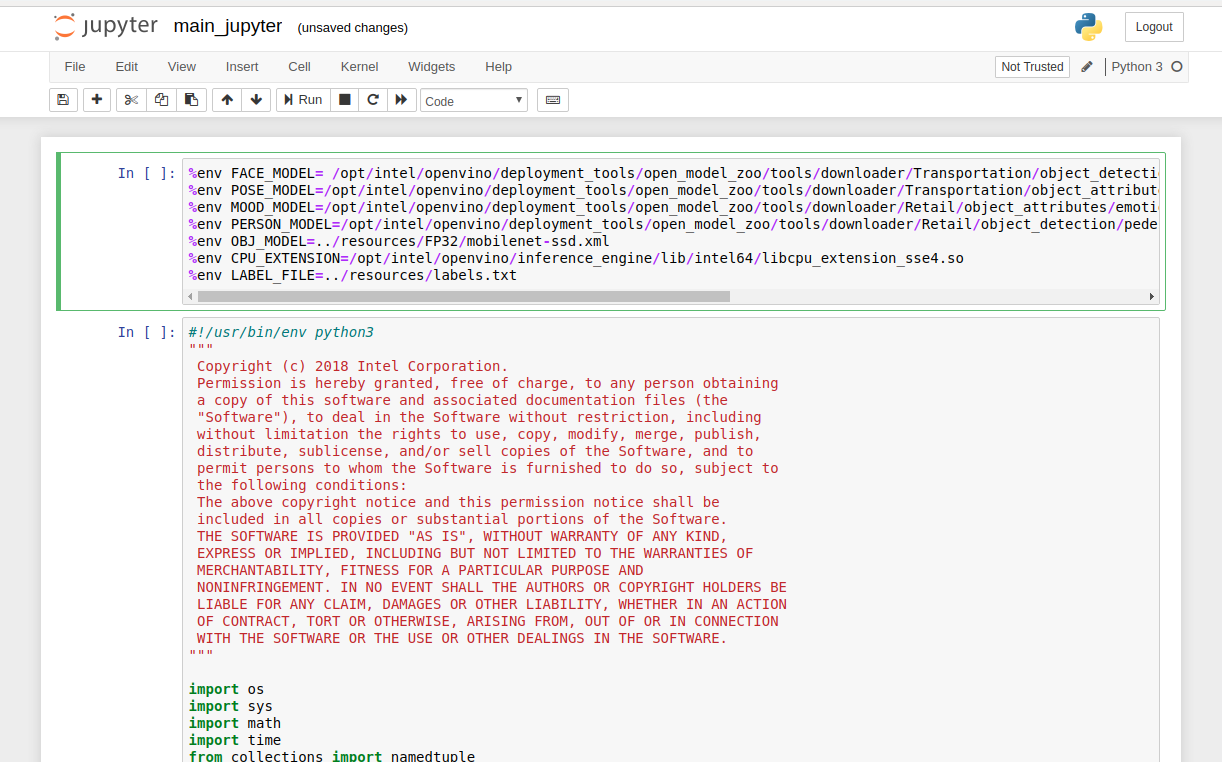
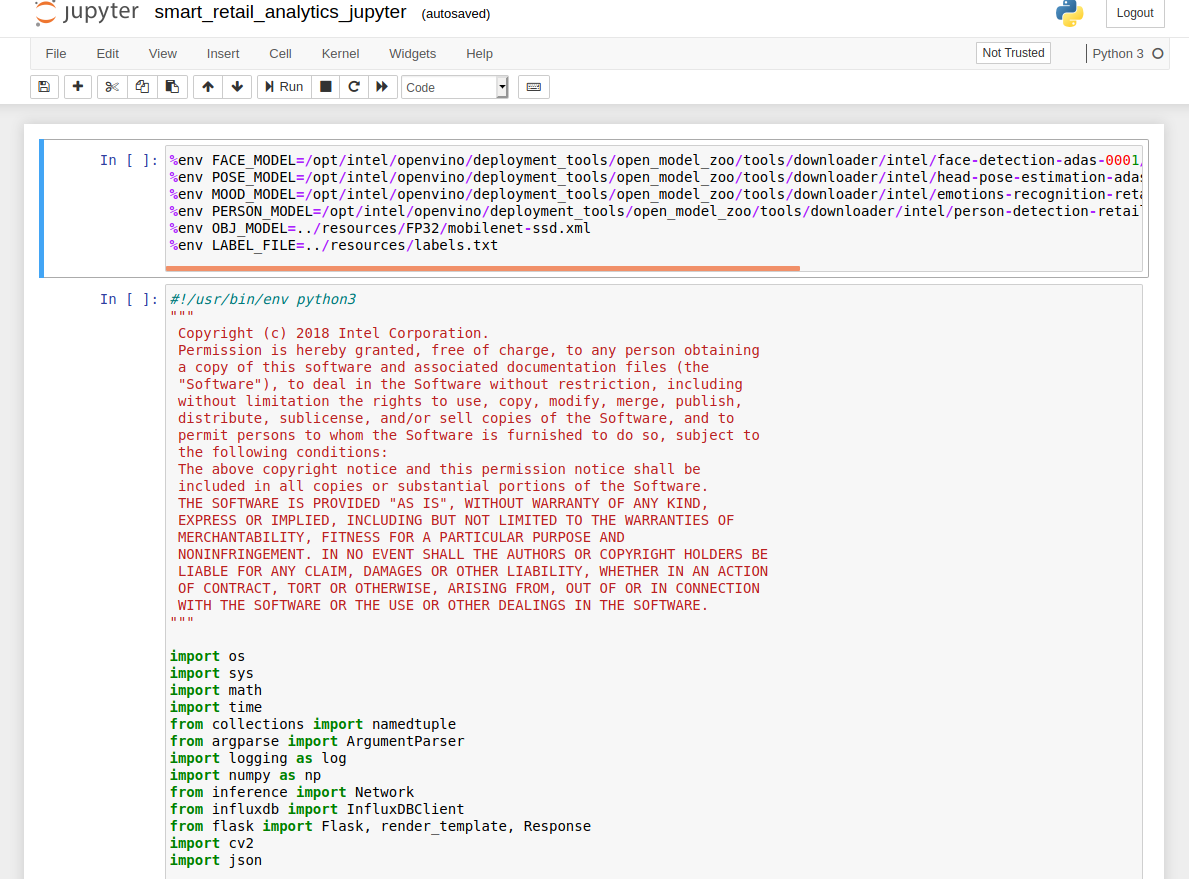
Updating to OpenVINO 2020.3

Changed region(s): [[0.0, 0.0, 1.0, 1.0]]

diff --git a/Jupyter/inference.py b/Jupyter/inference.py
@@ -76,7 +76,7 @@ class Network:
            tag = {}
         # Read IR
         log.info("Reading IR...")
-        self.net = IENetwork(model=model_xml, weights=model_bin)
+        self.net = self.plugin.read_network(model=model_xml, weights=model_bin)
         log.info("Loading IR to the plugin...")
 
         if "CPU" in device:

diff --git a/application/inference.py b/application/inference.py
@@ -76,7 +76,7 @@ class Network:
            tag = {}
         # Read IR
         log.info("Reading IR...")
-        self.net = IENetwork(model=model_xml, weights=model_bin)
+        self.net = self.plugin.read_network(model=model_xml, weights=model_bin)
         log.info("Loading IR to the plugin...")
 
         if "CPU" in device:

diff --git a/Jupyter/smart_retail_analytics_jupyter.py b/Jupyter/smart_retail_analytics_jupyter.py
@@ -896,6 +896,9 @@ def retail_analytics():
 
 # Create object for Flask class
 app = Flask(__name__, template_folder=template_dir)
+app.logger.disabled = True
+log_ = log.getLogger('werkzeug')
+log_.disabled = True
 
 
 # Trigger the index() function on opening "0.0.0.0:5000/" URL

diff --git a/application/smart_retail_analytics.py b/application/smart_retail_analytics.py
@@ -949,7 +949,9 @@ def retail_analytics():
 
 # Create object for Flask class
 app = Flask(__name__, template_folder=template_dir)
-
+app.logger.disabled = True
+log_ = log.getLogger('werkzeug')
+log_.disabled = True
 
 @app.route('/')
 def index():

diff --git a/README.md b/README.md
@@ -2,7 +2,7 @@
 
 | Details           |              |
 |-----------------------|---------------|
-| Target OS:            |  Ubuntu\* 16.04 LTS   |
+| Target OS:            |  Ubuntu\* 18.04 LTS   |
 | Programming Language: |  Python* 3.5 |
 | Time to Complete:    |  50-70min     |
 
@@ -16,13 +16,13 @@ This smart retail analytics application monitors people activity, counts total n
 * 6th to 8th Generation Intel® Core™ processors with Iris® Pro graphics or Intel® HD Graphics
 
 ### Software
-* [Ubuntu\* 16.04 LTS](http://releases.ubuntu.com/16.04/)<br>
+* [Ubuntu\* 18.04 LTS](http://releases.ubuntu.com/18.04/)<br>
    *Note*: We recommend using a 4.14+ Linux* kernel with this software. Run the following command to determine your kernel version:
    ```
    uname -a
    ```
 * OpenCL™ Runtime Package
-* Intel® Distribution of OpenVINO™ toolkit 2019 R3 release
+* Intel® Distribution of OpenVINO™ toolkit 2020 R3 release
 * Grafana* v5.3.2 
 * InfluxDB* v1.6.2
 
@@ -49,7 +49,7 @@ The application is capable of processing multiple video input feeds, each having
 Steps to clone the reference implementation: (smart-retail-analytics)
 
     sudo apt-get update && sudo apt-get install git
-    git clone https://github.com/intel-iot-devkit/smart-retail-analytics.git
+    git clone https://gitlab.devtools.intel.com/reference-implementations/smart-retail-analytics-python.git
 
 ### Install the Intel® Distribution of OpenVINO™ toolkit
 Refer to https://software.intel.com/en-us/articles/OpenVINO-Install-Linux on how to install and setup the Intel® Distribution of OpenVINO™ toolkit.
@@ -70,7 +70,7 @@ Grafana is an open-source, general purpose dashboard and graph composer, which r
 The AJAX Panel is a general way to load external content into a grafana dashboard.
 
 ### Which model to use
-The application uses  Intel® Pre-Trained models in the feed type `shopper` i.e.[face-detection-adas-0001](https://docs.openvinotoolkit.org/2019_R3/_models_intel_face_detection_adas_0001_description_face_detection_adas_0001.html), [head-pose-estimation-adas-0001](https://docs.openvinotoolkit.org/2019_R3/_models_intel_head_pose_estimation_adas_0001_description_head_pose_estimation_adas_0001.html), [emotion-recognition-retail-0003](https://docs.openvinotoolkit.org/2019_R3/_models_intel_emotions_recognition_retail_0003_description_emotions_recognition_retail_0003.html). For the feed type `traffic`, [person-detection-retail-0002](https://docs.openvinotoolkit.org/2019_R3/person-detection-retail-0002.html) is used and these can be downloaded using **model downloader** script.
+The application uses  Intel® Pre-Trained models in the feed type `shopper` i.e.[face-detection-adas-0001](https://docs.openvinotoolkit.org/2020.3/_models_intel_face_detection_adas_0001_description_face_detection_adas_0001.html), [head-pose-estimation-adas-0001](https://docs.openvinotoolkit.org/2020.3/_models_intel_head_pose_estimation_adas_0001_description_head_pose_estimation_adas_0001.html), [emotion-recognition-retail-0003](https://docs.openvinotoolkit.org/2020.3/_models_intel_emotions_recognition_retail_0003_description_emotions_recognition_retail_0003.html). For the feed type `traffic`, [person-detection-retail-0002](https://docs.openvinotoolkit.org/2020.3/person-detection-retail-0002.html) is used and these can be downloaded using **model downloader** script.
 
 For video feed type __shelf__, mobilenet-ssd model is used that can be downloaded using `downloader` script present in Intel® Distribution of OpenVINO™ toolkit.
 The `mobilenet-ssd` model is a Single-Shot multibox Detection (SSD) network intended to perform object detection. This model is implemented using the Caffe\* framework. For details about this model, check out the [repository](https://github.com/chuanqi305/MobileNet-SSD).
@@ -172,7 +172,7 @@ For example, if the output of above command is `/dev/video0`, then config.json w
 ## Setup the environment
 You must configure the environment to use the Intel® Distribution of OpenVINO™ toolkit one time per session by running the following command:
 ```
-source /opt/intel/openvino/bin/setupvars.sh -pyver 3.5
+source /opt/intel/openvino/bin/setupvars.sh
 ```
 __Note__: This command needs to be executed only once in the terminal where the application will be executed. If the terminal is closed, the command needs to be executed again.
     
@@ -184,10 +184,15 @@ Change the current directory to the git-cloned application code location on your
 cd <path_to_the_smart-retail-analytics-python_directory>/application
 ```
 
-To run the application with the required models:
+A user can specify a target device to run on by using the device command-line argument `-d_<model-acronym> (Ex. d_fm, d_pm, d_mm, d_om or d_pd)` followed by one of the values `CPU`, `GPU`,`MYRIAD` or `HDDL`.<br>
+
+Not specifying any target device means by default all the models will run on CPU, although this can also be explicitly specified by the device command-line argument
+
+To run the application with the required models :
 ```
-python3 smart_retail_analytics.py -fm /opt/intel/openvino/deployment_tools/open_model_zoo/tools/downloader/intel/face-detection-adas-0001/FP32/face-detection-adas-0001.xml -pm /opt/intel/openvino/deployment_tools/open_model_zoo/tools/downloader/intel/head-pose-estimation-adas-0001/FP32/head-pose-estimation-adas-0001.xml -mm /opt/intel/openvino/deployment_tools/open_model_zoo/tools/downloader/intel/emotions-recognition-retail-0003/FP32/emotions-recognition-retail-0003.xml -om ../resources/FP32/mobilenet-ssd.xml -pr /opt/intel/openvino/deployment_tools/open_model_zoo/tools/downloader/intel/person-detection-retail-0002/FP32/person-detection-retail-0002.xml -lb ../resources/labels.txt -l /opt/intel/openvino/inference_engine/lib/intel64/libcpu_extension_sse4.so
+python3 smart_retail_analytics.py -fm /opt/intel/openvino/deployment_tools/open_model_zoo/tools/downloader/intel/face-detection-adas-0001/FP32/face-detection-adas-0001.xml -pm /opt/intel/openvino/deployment_tools/open_model_zoo/tools/downloader/intel/head-pose-estimation-adas-0001/FP32/head-pose-estimation-adas-0001.xml -mm /opt/intel/openvino/deployment_tools/open_model_zoo/tools/downloader/intel/emotions-recognition-retail-0003/FP32/emotions-recognition-retail-0003.xml -om ../resources/FP32/mobilenet-ssd.xml -pr /opt/intel/openvino/deployment_tools/open_model_zoo/tools/downloader/intel/person-detection-retail-0002/FP32/person-detection-retail-0002.xml -lb ../resources/labels.txt 
 ```
+
 Once the command is executed in the terminal, configure the Grafana dashboard using the instructions given in the next section to see the output.<br>
 To run the application on sync mode, use **-f sync** as command line argument. By default, the application runs on async mode.
 
@@ -200,13 +205,15 @@ The application can use different hardware accelerator for different models. The
 * `-d_om <device>`: Target device for mobilenet-ssd network (CPU, GPU, MYRIAD, HETERO:FPGA,CPU or HDDL).
 * `-d_pd <device>`: Target device for Person Detection Retail network (CPU, GPU, MYRIAD, HETERO:FPGA,CPU or HDDL).
 
+
 __For example:__<br>
 To run Face Detection model with FP16 and Emotions Recognition model with FP32 on GPU, Head Pose Estimation model on MYRIAD, mobilenet-ssd and person-detection model on CPU, use the below command:
 ```
-python3 smart_retail_analytics.py -fm /opt/intel/openvino/deployment_tools/open_model_zoo/tools/downloader/intel/face-detection-adas-0001/FP16/face-detection-adas-0001.xml -pm /opt/intel/openvino/deployment_tools/open_model_zoo/tools/downloader/intel/head-pose-estimation-adas-0001/FP16/head-pose-estimation-adas-0001.xml -mm /opt/intel/openvino/deployment_tools/open_model_zoo/tools/downloader/intel/emotions-recognition-retail-0003/FP32/emotions-recognition-retail-0003.xml -om ../resources/FP32/mobilenet-ssd.xml -pr /opt/intel/openvino/deployment_tools/open_model_zoo/tools/downloader/intel/person-detection-retail-0002/FP32/person-detection-retail-0002.xml -lb ../resources/labels.txt -l /opt/intel/openvino/inference_engine/lib/intel64/libcpu_extension_sse4.so -d_fm GPU -d_pm MYRIAD -d_mm GPU -d_pd CPU -d_om CPU
+python3 smart_retail_analytics.py -fm /opt/intel/openvino/deployment_tools/open_model_zoo/tools/downloader/intel/face-detection-adas-0001/FP16/face-detection-adas-0001.xml -pm /opt/intel/openvino/deployment_tools/open_model_zoo/tools/downloader/intel/head-pose-estimation-adas-0001/FP16/head-pose-estimation-adas-0001.xml -mm /opt/intel/openvino/deployment_tools/open_model_zoo/tools/downloader/intel/emotions-recognition-retail-0003/FP32/emotions-recognition-retail-0003.xml -om ../resources/FP32/mobilenet-ssd.xml -pr /opt/intel/openvino/deployment_tools/open_model_zoo/tools/downloader/intel/person-detection-retail-0002/FP32/person-detection-retail-0002.xml -lb ../resources/labels.txt -d_fm GPU -d_pm MYRIAD -d_mm GPU -d_pd CPU -d_om CPU
 ```
-To run with multiple devices use -d MULTI:device1,device2. For example: `-d MULTI:CPU,GPU,MYRIAD`<br>
-By default, the application runs on CPU.<br>
+
+To run with multiple devices use MULTI:device1,device2. For example: `-d_fm MULTI:CPU,GPU,MYRIAD`<br>
+
 **Note:**<br>
 * The Intel® Neural Compute Stick and Intel® Movidius™ VPU can only run FP16 models. The model that is passed to the application, must be of data type FP16.<br>
 <!--2. To run the application on FPGA, follow the steps mentioned under **Run on the FPGA** section.<br>-->
@@ -236,47 +243,9 @@ To run the application on the Intel® Movidius™ VPU, use the `-d HDDL` command
 ```
 python3 smart_retail_analytics.py -fm /opt/intel/openvino/deployment_tools/open_model_zoo/tools/downloader/intel/face-detection-adas-0001/FP16/face-detection-adas-0001.xml -pm /opt/intel/openvino/deployment_tools/open_model_zoo/tools/downloader/intel/head-pose-estimation-adas-0001/FP16/head-pose-estimation-adas-0001.xml -mm /opt/intel/openvino/deployment_tools/open_model_zoo/tools/downloader/intel/emotions-recognition-retail-0003/FP16/emotions-recognition-retail-0003.xml -om ../resources/FP16/mobilenet-ssd.xml -pr /opt/intel/openvino/deployment_tools/open_model_zoo/tools/downloader/intel/person-detection-retail-0002/FP16/person-detection-retail-0002.xml -lb ../resources/labels.txt -d_pd HDDL -d_fm HDDL -d_pm HDDL -d_mm HDDL -d_om HDDL
 ```
-
-#### Run on the Intel® Arria® 10 FPGA
-
-Before running the application on the FPGA, set the environment variables and  program the AOCX (bitstream) file.<br>
-
-Set the Board Environment Variable to the proper directory:
-
-```
-export AOCL_BOARD_PACKAGE_ROOT=/opt/intel/openvino/bitstreams/a10_vision_design_sg<#>_bitstreams/BSP/a10_1150_sg<#>
-```
-**NOTE**: If you do not know which version of the board you have, please refer to the product label on the fan cover side or by the product SKU: Mustang-F100-A10-R10 => SG1; Mustang-F100-A10E-R10 => SG2 <br>
-
-Set the Board Environment Variable to the proper directory:
-```
-export QUARTUS_ROOTDIR=/home/<user>/intelFPGA/18.1/qprogrammer
-```
-Set the remaining environment variables:
-```
-export PATH=$PATH:/opt/altera/aocl-pro-rte/aclrte-linux64/bin:/opt/altera/aocl-pro-rte/aclrte-linux64/host/linux64/bin:/home/<user>/intelFPGA/18.1/qprogrammer/bin
-export INTELFPGAOCLSDKROOT=/opt/altera/aocl-pro-rte/aclrte-linux64
-export LD_LIBRARY_PATH=$LD_LIBRARY_PATH:$AOCL_BOARD_PACKAGE_ROOT/linux64/lib
-export CL_CONTEXT_COMPILER_MODE_INTELFPGA=3
-source /opt/altera/aocl-pro-rte/aclrte-linux64/init_opencl.sh
-```
-**NOTE**: It is recommended to create your own script for your system to aid in setting up these environment variables. It will be run each time you need a new terminal or restart your system.
-
-The bitstreams for HDDL-F can be found under the `/opt/intel/openvino/bitstreams/a10_vision_design_sg<#>_bitstreams/` directory.<br><br>To program the bitstream use the below command:<br>
-```
-aocl program acl0 /opt/intel/openvino/bitstreams/a10_vision_design_sg<#>_bitstreams/2019R3_PV_PL1_FP16_MobileNet_Clamp.aocx
-```
-
-For more information on programming the bitstreams, please refer the [link](https://software.intel.com/en-us/articles/OpenVINO-Install-Linux-FPGA#inpage-nav-11).
-
-To run the application on the FPGA with floating point precision 16 (FP16), use the `-d HETERO:FPGA,CPU` command-line argument:
-```
-python3 smart_retail_analytics.py -fm /opt/intel/openvino/deployment_tools/open_model_zoo/tools/downloader/intel/face-detection-adas-0001/FP16/face-detection-adas-0001.xml -pm /opt/intel/openvino/deployment_tools/open_model_zoo/tools/downloader/intel/head-pose-estimation-adas-0001/FP16/head-pose-estimation-adas-0001.xml -mm /opt/intel/openvino/deployment_tools/open_model_zoo/tools/downloader/intel/emotions-recognition-retail-0003/FP16/emotions-recognition-retail-0003.xml -om ../resources/FP16/mobilenet-ssd.xml -pr /opt/intel/openvino/deployment_tools/open_model_zoo/tools/downloader/intel/person-detection-retail-0002/FP16/person-detection-retail-0002.xml -lb ../resources/labels.txt -l /opt/intel/openvino/inference_engine/lib/intel64/libcpu_extension_sse4.so -d_pd HETERO:FPGA,CPU -d_fm HETERO:FPGA,CPU -d_pm HETERO:FPGA,CPU -d_mm HETERO:FPGA,CPU -d_om HETERO:FPGA,CPU
-```
-
 ### Visualize on Grafana
 
-1. Start the Grafana server:
+1. Open a new tab on the terminal and start the Grafana server using the following command:
 
    ```
    sudo service grafana-server start

diff --git a/Jupyter/README.md b/Jupyter/README.md
@@ -2,7 +2,7 @@
 
 | Details           |              |
 |-----------------------|---------------|
-| Target OS:            |  Ubuntu\* 16.04 LTS   |
+| Target OS:            |  Ubuntu\* 18.04 LTS   |
 | Programming Language: |  Python* 3.5 |
 | Time to Complete:    |  50-70min     |
 
@@ -17,13 +17,13 @@ This smart retail analytics application monitors people activity, counts total n
 * 6th to 8th Generation Intel® Core™ processors with Iris® Pro graphics or Intel® HD Graphics
 
 ### Software
-* [Ubuntu\* 16.04 LTS](http://releases.ubuntu.com/16.04/)<br>
+* [Ubuntu\* 18.04 LTS](http://releases.ubuntu.com/18.04/)<br>
    *Note*: We recommend using a 4.14+ Linux* kernel with this software. Run the following command to determine your kernel version:
    ```
    uname -a
    ```
 * OpenCL™ Runtime Package
-* Intel® Distribution of OpenVINO™ toolkit 2019 R3 release
+* Intel® Distribution of OpenVINO™ toolkit 2020 R3 release
 * Grafana* v5.3.2 
 * InfluxDB* v1.6.2
 * Jupyter* Notebook v5.7.0
@@ -72,7 +72,7 @@ Grafana is an open-source, general purpose dashboard and graph composer, which r
 The AJAX Panel is a general way to load external content into a grafana dashboard.
 
 ### Which model to use
-The application uses  Intel® Pre-Trained models in the feed type `shopper` i.e.[face-detection-adas-0001](https://docs.openvinotoolkit.org/2019_R3/_models_intel_face_detection_adas_0001_description_face_detection_adas_0001.html), [head-pose-estimation-adas-0001](https://docs.openvinotoolkit.org/2019_R3/_models_intel_head_pose_estimation_adas_0001_description_head_pose_estimation_adas_0001.html), [emotion-recognition-retail-0003](https://docs.openvinotoolkit.org/2019_R3/_models_intel_emotions_recognition_retail_0003_description_emotions_recognition_retail_0003.html). For the feed type `traffic`, [person-detection-retail-0002](https://docs.openvinotoolkit.org/2019_R3/person-detection-retail-0002.html) is used and these can be downloaded using **model downloader** script.
+The application uses  Intel® Pre-Trained models in the feed type `shopper` i.e.[face-detection-adas-0001](https://docs.openvinotoolkit.org/2020.3/_models_intel_face_detection_adas_0001_description_face_detection_adas_0001.html), [head-pose-estimation-adas-0001](https://docs.openvinotoolkit.org/2020.3/_models_intel_head_pose_estimation_adas_0001_description_head_pose_estimation_adas_0001.html), [emotion-recognition-retail-0003](https://docs.openvinotoolkit.org/2020.3/_models_intel_emotions_recognition_retail_0003_description_emotions_recognition_retail_0003.html). For the feed type `traffic`, [person-detection-retail-0002](https://docs.openvinotoolkit.org/2020.3/person-detection-retail-0002.html) is used and these can be downloaded using **model downloader** script.
 
 For video feed type __shelf__, mobilenet-ssd model is used that can be downloaded using `downloader` script present in Intel® Distribution of OpenVINO™ toolkit.
 The `mobilenet-ssd` model is a Single-Shot multibox Detection (SSD) network intended to perform object detection. This model is implemented using the Caffe\* framework. For details about this model, check out the [repository](https://github.com/chuanqi305/MobileNet-SSD).
@@ -174,7 +174,7 @@ For example, if the output of above command is `/dev/video0`, then config.json w
 ## Setup the environment
 You must configure the environment to use the Intel® Distribution of OpenVINO™ toolkit one time per session by running the following command:
 ```
-source /opt/intel/openvino/bin/setupvars.sh -pyver 3.5
+source /opt/intel/openvino/bin/setupvars.sh
 ```
 __Note__: This command needs to be executed only once in the terminal where the application will be executed. If the terminal is closed, the command needs to be executed again.
     
@@ -187,7 +187,7 @@ __Note__: This command needs to be executed only once in the terminal where the 
     
     jupyter notebook
 	```
-	**Note:** Before running the application on the FPGA, set the environment variables and  program the AOCX (bitstream) file.<br>
+	<!--**Note:** Before running the application on the FPGA, set the environment variables and  program the AOCX (bitstream) file.<br>
 
     Set the Board Environment Variable to the proper directory:
 
@@ -215,7 +215,7 @@ __Note__: This command needs to be executed only once in the terminal where the 
     aocl program acl0 /opt/intel/openvino/bitstreams/a10_vision_design_sg<#>_bitstreams/2019R3_PV_PL1_FP16_MobileNet_Clamp.aocx
     ```
 
-    For more information on programming the bitstreams, please refer the [link](https://software.intel.com/en-us/articles/OpenVINO-Install-Linux-FPGA#inpage-nav-11).
+    For more information on programming the bitstreams, please refer the [link](https://software.intel.com/en-us/articles/OpenVINO-Install-Linux-FPGA#inpage-nav-11).-->
 
    ![Jupyter Notebook](../docs/images/jupyter.png)
 
@@ -234,7 +234,6 @@ __Note__: This command needs to be executed only once in the terminal where the 
    %env MOOD_MODEL=/opt/intel/openvino/deployment_tools/open_model_zoo/tools/downloader/intel/emotions-recognition-retail-0003/FP32/emotions-recognition-retail-0003.xml
    %env PERSON_MODEL=/opt/intel/openvino/deployment_tools/open_model_zoo/tools/downloader/intel/person-detection-retail-0002/FP32/person-detection-retail-0002.xml
    %env OBJ_MODEL=../resources/FP32/mobilenet-ssd.xml
-   %env CPU_EXTENSION=/opt/intel/openvino/inference_engine/lib/intel64/libcpu_extension_sse4.so
    %env LABEL_FILE=../resources/labels.txt
    ```
 
@@ -265,7 +264,6 @@ To run Face Detection model with FP16 and Emotions Recognition model with FP32 o
    %env MOOD_MODEL=/opt/intel/openvino/deployment_tools/open_model_zoo/tools/downloader/intel/emotions-recognition-retail-0003/FP32/emotions-recognition-retail-0003.xml
    %env PERSON_MODEL=/opt/intel/openvino/deployment_tools/open_model_zoo/tools/downloader/intel/person-detection-retail-0002/FP32/person-detection-retail-0002.xml
    %env OBJ_MODEL=../resources/FP32/mobilenet-ssd.xml
-   %env CPU_EXTENSION=/opt/intel/openvino/inference_engine/lib/intel64/libcpu_extension_sse4.so
    %env LABEL_FILE=../resources/labels.txt
    %env FLAG=async
    %env FACE_DEVICE=GPU
@@ -275,7 +273,7 @@ To run Face Detection model with FP16 and Emotions Recognition model with FP32 o
    %env OBJ_DEVICE=CPU
    ```
 
-   ![Jupyter Notebook](../docs/images/jupyter_code1.png)
+   ![Jupyter Notebook](../docs/images/jupyter_code2.png)
 
 **Note:** The Intel® Neural Compute Stick and Intel® Movidius™ VPU can only run FP16 models. The model that is passed to the application, must be of data type FP16.
 
@@ -312,9 +310,8 @@ To run the application on the Intel® Movidius™ VPU, export the environmental 
    %env OBJ_DEVICE=HDDL
    %env PERSON_DEVICE=HDDL
    ```
-   **CPU_EXTENSION** environment variable is not required.
 
-### Run on the Intel® Arria® 10 FPGA:
+<!--### Run on the Intel® Arria® 10 FPGA:
 To run the application on the Intel® Arria® 10 FPGA, export the below environmental variables:<br>
 ```
 %env FACE_MODEL=/opt/intel/openvino/deployment_tools/open_model_zoo/tools/downloader/intel/face-detection-adas-0001/FP16/face-detection-adas-0001.xml
@@ -322,7 +319,6 @@ To run the application on the Intel® Arria® 10 FPGA, export the below environm
 %env MOOD_MODEL=/opt/intel/openvino/deployment_tools/open_model_zoo/tools/downloader/intel/emotions-recognition-retail-0003/FP16/emotions-recognition-retail-0003.xml
 %env PERSON_MODEL=/opt/intel/openvino/deployment_tools/open_model_zoo/tools/downloader/intel/person-detection-retail-0002/FP16/person-detection-retail-0002.xml
 %env OBJ_MODEL=../resources/FP16/mobilenet-ssd.xml
-%env CPU_EXTENSION=/opt/intel/openvino/inference_engine/lib/intel64/libcpu_extension_sse4.so
 %env LABEL_FILE=../resources/labels.txt
 %env FLAG=async
 %env FACE_DEVICE=HETERO:FPGA,CPU
@@ -331,7 +327,7 @@ To run the application on the Intel® Arria® 10 FPGA, export the below environm
 %env OBJ_DEVICE=HETERO:FPGA,CPU
 %env PERSON_DEVICE=HETERO:FPGA,CPU
 ```
-
+-->
 ### Run with multiple devices
 To run the application with multiple devices use **MULTI:device1,device2**, export the environmental variables given below in the first cell, then click on the Kernel menu and select **Restart & Run All** from the drop-down list.<br>
 For example: `MULTI:CPU,GPU,MYRIAD`
@@ -341,7 +337,6 @@ For example: `MULTI:CPU,GPU,MYRIAD`
    %env MOOD_MODEL=/opt/intel/openvino/deployment_tools/open_model_zoo/tools/downloader/intel/emotions-recognition-retail-0003/FP16/emotions-recognition-retail-0003.xml
    %env PERSON_MODEL=/opt/intel/openvino/deployment_tools/open_model_zoo/tools/downloader/intel/person-detection-retail-0002/FP16/person-detection-retail-0002.xml
    %env OBJ_MODEL=../resources/FP16/mobilenet-ssd.xml
-   %env CPU_EXTENSION=/opt/intel/openvino/inference_engine/lib/intel64/libcpu_extension_sse4.so
    %env LABEL_FILE=../resources/labels.txt
    %env FLAG=async
    %env FACE_DEVICE=MULTI:CPU,GPU,MYRIAD
@@ -353,7 +348,7 @@ For example: `MULTI:CPU,GPU,MYRIAD`
    
 ### Visualize on Grafana
 
-1. Start the Grafana server:
+1. Open a new tab on the terminal and start the Grafana server using the following command:
    ```
    sudo service grafana-server start
    ```
